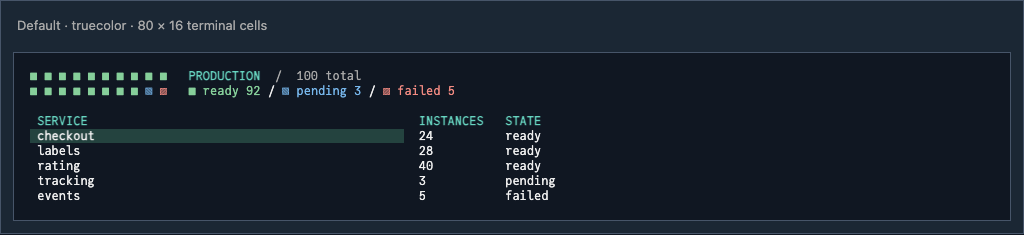
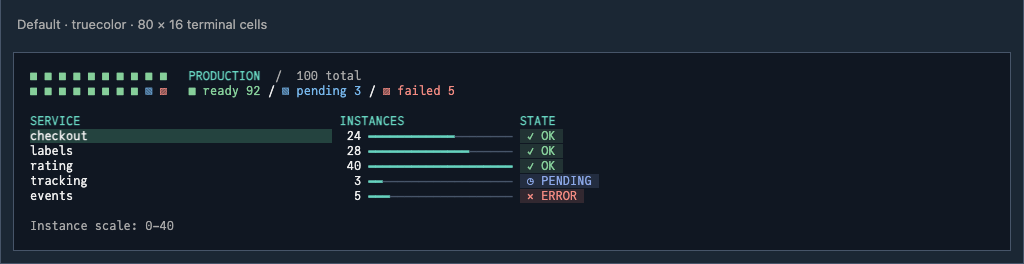
feat(story): compose fleet status and bars
Use shared state atoms and show instance magnitude on one labeled scale while retaining exact counts.

Detected-By: user

diff --git a/story/waffle.go b/story/waffle.go
@@ -6,11 +6,14 @@ import (
 	"strings"
 
 	"charm.land/bubbles/v2/table"
+	"charm.land/lipgloss/v2"
 	"github.com/lanej/charmed/chart"
 	"github.com/lanej/charmed/collection"
+	"github.com/lanej/charmed/feedback"
 	"github.com/lanej/charmed/layout"
 	"github.com/lanej/charmed/runtime"
 	"github.com/lanej/charmed/text"
+	"github.com/lanej/charmed/theme"
 )
 
 func waffleFixture(e Environment) chart.Waffle {
@@ -60,18 +63,63 @@ func waffleHeaderStory(e Environment) (runtime.Scene, error) {
 		w := waffleFixture(e)
 		t := e.Config.Palette()
 
-		var rows []table.Row
-		if e.Config.State == "empty" {
-			rows = nil
-		} else {
-			ready := w.Parts[0].Count
-			rows = []table.Row{{"checkout", fmt.Sprint(min(24, ready)), "ready"}, {"labels", fmt.Sprint(min(28, max(0, ready-24))), "ready"}, {"rating", fmt.Sprint(max(0, ready-52)), "ready"}, {"tracking", fmt.Sprint(w.Parts[1].Count), "pending"}, {"events", fmt.Sprint(w.Parts[2].Count), "failed"}}
+		statusMode := text.GlyphAndLabel
+		if size.Width < 28 {
+			statusMode = text.GlyphOnly
 		}
 
-		list := collection.NewTable([]table.Column{{Title: "SERVICE", Width: max(10, size.Width-29)}, {Title: "INSTANCES", Width: 10}, {Title: "STATE", Width: 10}}, rows, size.Width, 7, t)
+		statusWidth := 5
+		for _, status := range []feedback.Status{feedback.OK, feedback.Pending, feedback.Error} {
+			statusWidth = max(statusWidth, lipgloss.Width(status.View(text.Normal, t, statusMode)))
+		}
 
-		return w.StatusHeader("PRODUCTION", layout.Size{Width: size.Width, Height: 2}, t) + "\n\n" + list.View()
+		magnitudeWidth := min(24, max(9, size.Width/3))
+		serviceWidth := max(3, size.Width-statusWidth-magnitudeWidth-3)
+		magnitudeWidth = max(3, size.Width-statusWidth-serviceWidth-3)
+		scale := 1
+
+		var rows []table.Row
+
+		if len(w.Parts) > 0 {
+			ready := w.Parts[0].Count
+			counts := []int{min(24, ready), min(28, max(0, ready-24)), max(0, ready-52), w.Parts[1].Count, w.Parts[2].Count}
+			names := []string{"checkout", "labels", "rating", "tracking", "events"}
+			states := []feedback.Status{feedback.OK, feedback.OK, feedback.OK, feedback.Pending, feedback.Error}
+
+			for _, count := range counts {
+				scale = max(scale, count)
+			}
+
+			for i, count := range counts {
+				rows = append(rows, table.Row{names[i], waffleMagnitude(count, scale, magnitudeWidth, t), states[i].View(text.Normal, t, statusMode)})
+			}
+		}
+
+		list := collection.NewDenseTable([]table.Column{{Title: "SERVICE", Width: serviceWidth}, {Title: "INSTANCES", Width: magnitudeWidth}, {Title: "STATE", Width: statusWidth}}, rows, size.Width, 7, t)
+
+		caption := ""
+		if len(rows) > 0 {
+			caption = t.Subtle().Render(fmt.Sprintf("Instance scale: 0–%d", scale))
+		}
+
+		return w.StatusHeader("PRODUCTION", layout.Size{Width: size.Width, Height: 2}, t) + "\n\n" + list.View() + "\n" + caption
 	}), nil
+}
+
+func waffleMagnitude(count, scale, width int, t theme.Theme) string {
+	label := fmt.Sprintf("%3d", count)
+	if width < 8 {
+		return label
+	}
+
+	bar := feedback.NewProgress(width-4, t)
+	bar.EmptyColor = t.Border
+
+	if !t.ASCII {
+		bar.Full, bar.Empty = '━', '─'
+	}
+
+	return label + " " + bar.ViewAs(float64(count)/float64(scale))
 }
 
 func waffleConfig() Config { c := atomConfig(); c.Rows = 16; c.Amount = 92; return c }

diff --git a/story/molecules.go b/story/molecules.go
@@ -23,7 +23,7 @@ func moleculesDefinitions() []Definition {
 	}
 
 	d = append(d,
-		Definition{ID: "chart/waffle-header", Title: "Molecules/Charts/Waffle status header", Level: "Molecules", Family: "chart", Description: "A two-row micro-grid and exact fleet counts above a service list. A one-row option supports tighter headers.", Source: "chart/waffle.go", ExampleSource: "docs/snippets/waffle.go.txt", Controls: []string{"amount", "state"}, States: []string{"ready", "empty"}, Composes: []string{"chart/waffle", "collection/table"}, Defaults: waffleConfig(), Factory: waffleHeaderStory},
+		Definition{ID: "chart/waffle-header", Title: "Molecules/Charts/Waffle status header", Level: "Molecules", Family: "chart", Description: "A fleet micro-grid above a service list with shared-scale instance bars and semantic status atoms. A one-row option supports tighter headers.", Source: "chart/waffle.go", ExampleSource: "docs/snippets/waffle.go.txt", Controls: []string{"amount", "state"}, States: []string{"ready", "empty"}, Composes: []string{"chart/waffle", "collection/table", "feedback/status", "feedback/progress"}, Defaults: waffleConfig(), Factory: waffleHeaderStory},
 		Definition{ID: "chart/band-matrix", Title: "Molecules/Charts/Band matrix", Level: "Molecules", Family: "chart", Description: "Directly labeled, disconnected distribution rows composed in a rectangular frame.", Source: "chart/comparison.go", Controls: []string{"sigma"}, Composes: []string{"chart/distributions", "foundations/layout"}, Defaults: DefaultConfig(), Factory: bandMatrixStory},
 		Definition{ID: "chart/metric", Title: "Molecules/Charts/Metric trend", Level: "Molecules", Family: "chart", Description: "A metric value, unit and sparkline share one bounded allocation; unavailable values and missing history remain distinct.", Source: "story/molecules.go", Symbol: "metricStory", Upstream: "https://github.com/NimbleMarkets/ntcharts", Controls: []string{"amount", "state"}, States: []string{"ready", "empty"}, Composes: []string{"chart/sparkline"}, Defaults: DefaultConfig(), Factory: metricStory},
 		Definition{ID: "chart/panel", Title: "Molecules/Charts/Chart panel", Level: "Molecules", Family: "chart", Description: "A chart and title compose into a reusable region with an optional color-matched legend.", Source: "story/molecules.go", Symbol: "panelStory", Upstream: "https://github.com/NimbleMarkets/ntcharts", Controls: []string{"series", "amount", "legend"}, Composes: []string{"chart/timeseries", "foundations/layout"}, Defaults: DefaultConfig(), Factory: panelStory},

diff --git a/story/waffle_test.go b/story/waffle_test.go
@@ -1,11 +1,14 @@
 package story_test
 
 import (
+	"strconv"
 	"strings"
 	"testing"
 
 	"github.com/charmbracelet/x/ansi"
+	"github.com/lanej/charmed/feedback"
 	"github.com/lanej/charmed/story"
+	"github.com/lanej/charmed/text"
 	"github.com/lanej/charmed/theme"
 )
 
@@ -29,6 +32,69 @@ func TestWaffleLegendKeepsCategoryKeysAtNarrowWidths(t *testing.T) {
 			if !strings.Contains(ansi.Strip(frame), key) {
 				t.Fatalf("%d-column waffle lost legend key %q", width, key)
 			}
+		}
+	}
+}
+
+func TestWaffleTableKeepsCountsBarsAndStatusAtoms(t *testing.T) {
+	definition, err := story.Find("chart/waffle-header")
+	if err != nil {
+		t.Fatal(err)
+	}
+
+	for _, width := range []int{40, 80} {
+		config := definition.Defaults
+		config.Columns = width
+		config.Theme = theme.Mono
+
+		frame, err := story.Frame(definition.ID, config)
+		if err != nil {
+			t.Fatal(err)
+		}
+
+		plain := ansi.Strip(frame)
+		if !strings.Contains(plain, "Instance scale: 0-40") {
+			t.Fatal("instance bars lost their shared scale")
+		}
+
+		bars := map[string]int{}
+
+		for _, expected := range []struct {
+			name   string
+			count  int
+			status feedback.Status
+		}{
+			{"checkout", 24, feedback.OK},
+			{"labels", 28, feedback.OK},
+			{"rating", 40, feedback.OK},
+			{"tracking", 3, feedback.Pending},
+			{"events", 5, feedback.Error},
+		} {
+			found := false
+
+			for _, line := range strings.Split(plain, "\n") {
+				if !strings.HasPrefix(line, expected.name+" ") {
+					continue
+				}
+
+				found = true
+				fields := strings.Fields(line)
+
+				atom := ansi.Strip(expected.status.View(text.Normal, theme.New(theme.Mono)))
+				if len(fields) < 2 || fields[1] != strconv.Itoa(expected.count) || !strings.Contains(line, atom) {
+					t.Fatalf("%d-column row lost its count or status atom: %q", width, line)
+				}
+
+				bars[expected.name] = strings.Count(line, "#")
+			}
+
+			if !found {
+				t.Fatalf("%d-column table lost %s", width, expected.name)
+			}
+		}
+
+		if bars["rating"] <= bars["labels"] || bars["labels"] <= bars["checkout"] || bars["checkout"] <= bars["events"] || bars["events"] < bars["tracking"] || bars["tracking"] <= 0 {
+			t.Fatalf("%d-column bar magnitudes do not follow the counts: %v", width, bars)
 		}
 	}
 }
